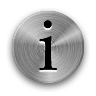
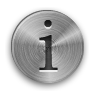
Added paper texture and better transition to the infoView.

diff --git a/AutoLogin/InfoViewController.m b/AutoLogin/InfoViewController.m
@@ -13,7 +13,8 @@ const NSString* urlGithub  = @"https://github.com/camitox/USM-Login-iPhone";
 
 @implementation InfoViewController
 
-@synthesize buttonEmailCamo,
+@synthesize buttonDismiss,
+            buttonEmailCamo,
             buttonEmailCan,
             buttonURL,
             labelCreatedBy,
@@ -25,14 +26,24 @@ const NSString* urlGithub  = @"https://github.com/camitox/USM-Login-iPhone";
     
     NSArray *buttons = [NSArray arrayWithObjects:buttonURL, buttonEmailCan, buttonEmailCamo, nil];
     
+    self.view.clipsToBounds = YES;
+    self.view.layer.cornerRadius = 10.0;
+    self.view.backgroundColor = [UIColor colorWithPatternImage:[UIImage imageNamed:@"background-paper"]];
+    
     // Localize strings
     self.labelBody.text = LS(@"info-body", @"El código de la aplicación se encuentra disponible en github:");
     self.labelCreatedBy.text = LS(@"info-createdby", @"Creado por:");
     
+    // Hide the button if its ipad
+    if ([[[UIDevice currentDevice] model] hasPrefix:@"iPad"])
+    {
+        self.buttonDismiss.hidden = YES;
+    }
+    
     for (UIButton *button in buttons)
     {
-        button.backgroundColor = [UIColor colorWithWhite:0.75 alpha:1.0];
-        button.layer.cornerRadius = 16.0;
+        button.backgroundColor = [UIColor colorWithWhite:0 alpha:0.25];
+        button.layer.cornerRadius = button.frame.size.height/2;
         button.clipsToBounds = YES;
         button.titleLabel.textColor = [UIColor colorWithWhite:1.0 alpha:1.0];
     }

diff --git a/AutoLogin/InfoViewController.h b/AutoLogin/InfoViewController.h
@@ -13,6 +13,7 @@
 @property (nonatomic,retain) IBOutlet UIButton *buttonURL;
 @property (nonatomic,retain) IBOutlet UIButton *buttonEmailCan;
 @property (nonatomic,retain) IBOutlet UIButton *buttonEmailCamo;
+@property (nonatomic,retain) IBOutlet UIButton *buttonDismiss;
 @property (nonatomic,retain) IBOutlet UILabel *labelBody;
 @property (nonatomic,retain) IBOutlet UILabel *labelCreatedBy;
 

diff --git a/AutoLogin/AutoLoginViewController.m b/AutoLogin/AutoLoginViewController.m
@@ -408,7 +408,7 @@ static NSString *secretKey    = @"key";
     
     if (!isIpad)
     {
-        [infoViewController setModalTransitionStyle:UIModalTransitionStylePartialCurl];
+        [infoViewController setModalTransitionStyle:UIModalTransitionStyleCoverVertical];
         [self presentModalViewController:infoViewController animated:YES];
         [infoViewController release];
     }
